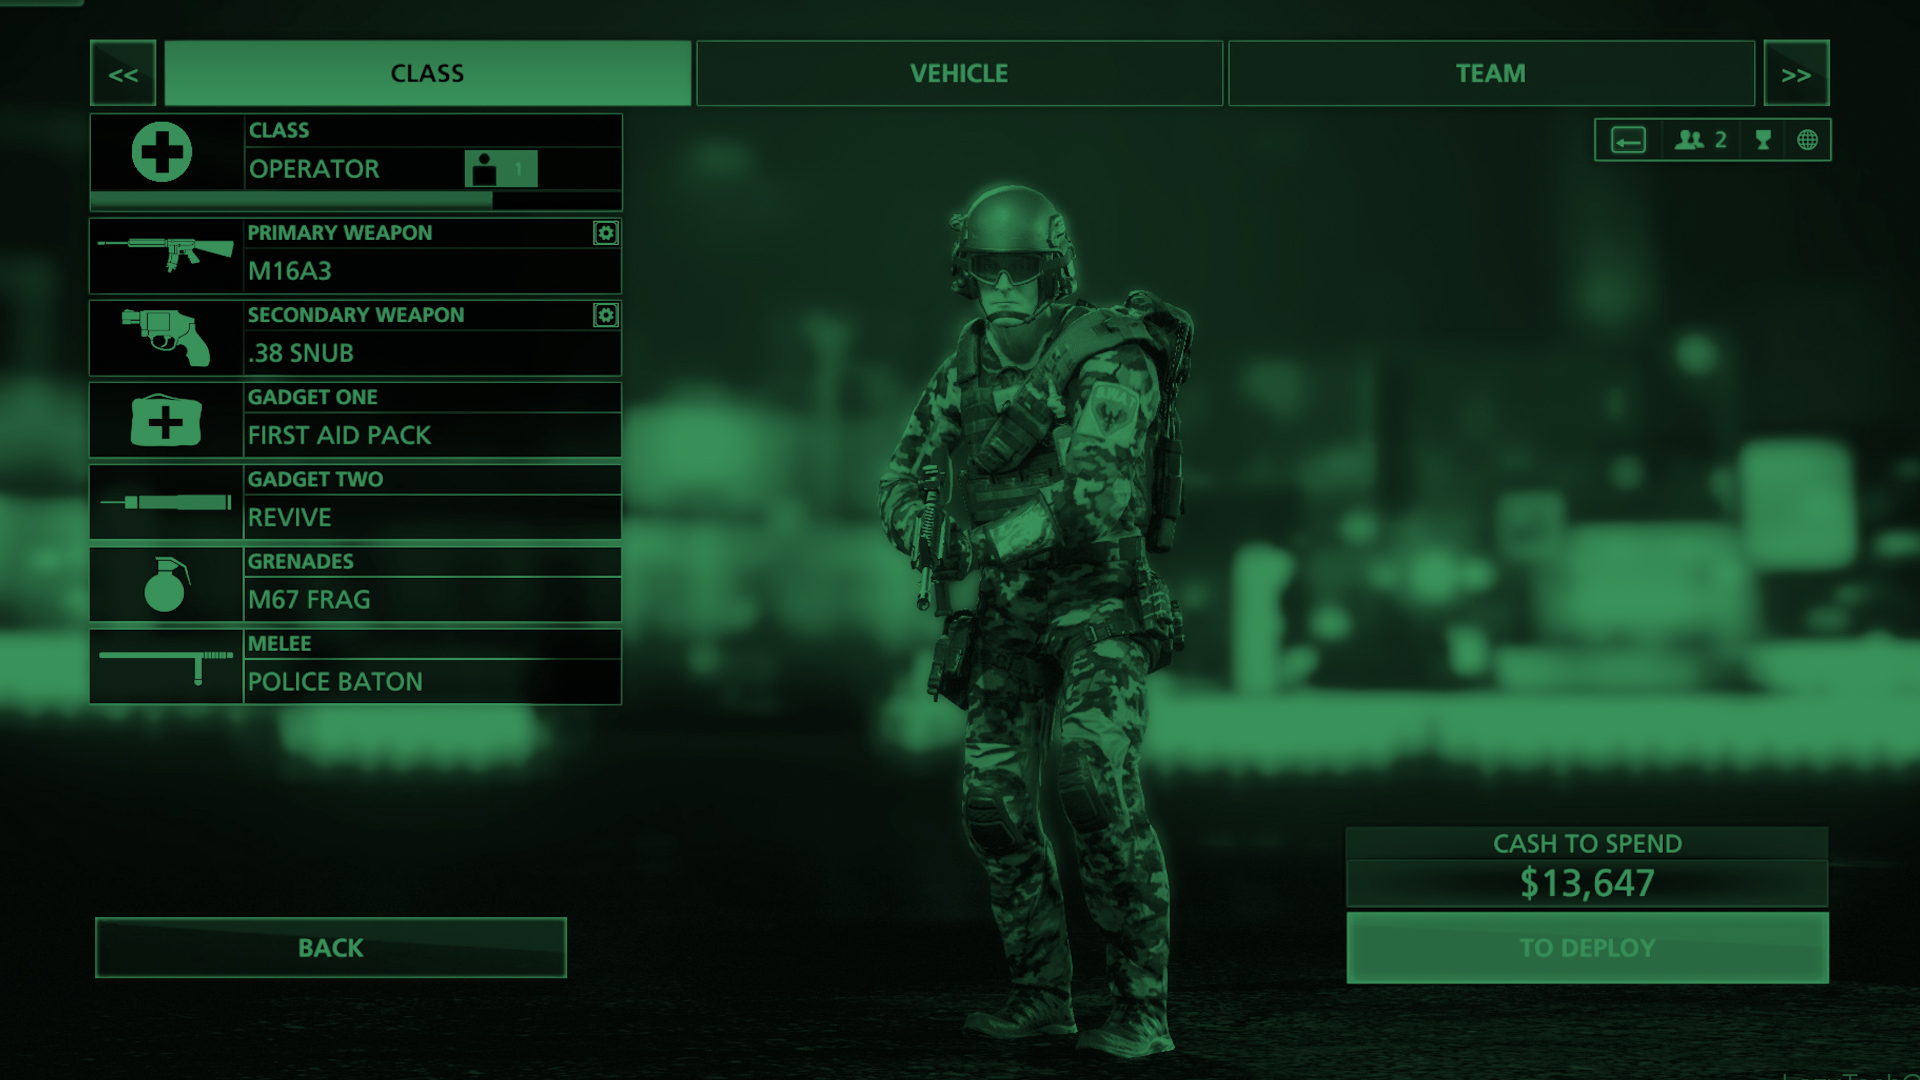
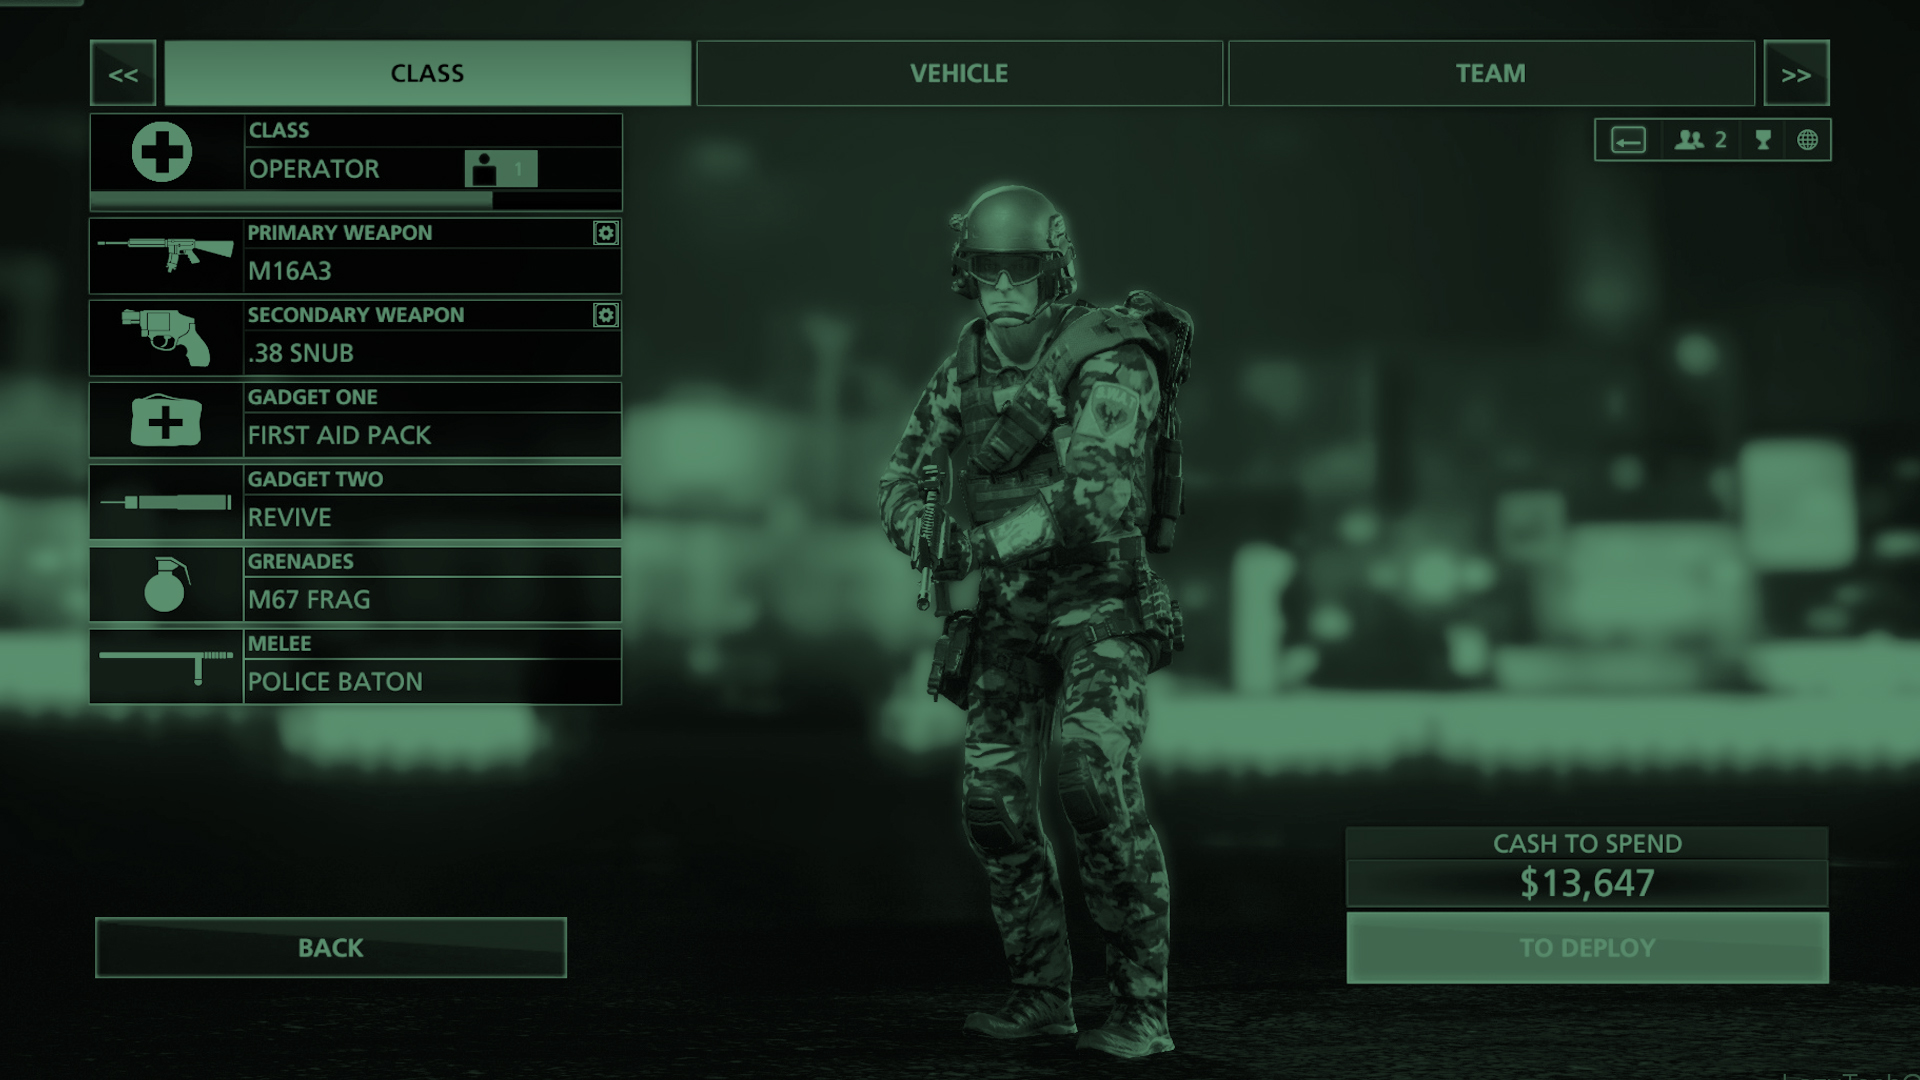
les saturated

diff --git a/lib/styles/background.scss b/lib/styles/background.scss
@@ -7,7 +7,7 @@
   bottom: 0;
   background: 
[1 lines of base64/hex data omitted]
-    url('images/backgrounds-0.jpg'); // http://www.patternify.com/
+    url('images/backgrounds-2.jpg'); // http://www.patternify.com/
   background-repeat: repeat;
   background-size: 2px 3px, cover;
   background-position: -50%;

diff --git a/lib/styles/type.scss b/lib/styles/type.scss
@@ -135,7 +135,7 @@ p {
     letter-spacing: 10px;
     position: relative;
     left: -76px;
-    margin-bottom: 40px;
+    margin-bottom: 30px;
     margin-top: 0;
     text-shadow: 0px 1px 0 $color-black;
   }
